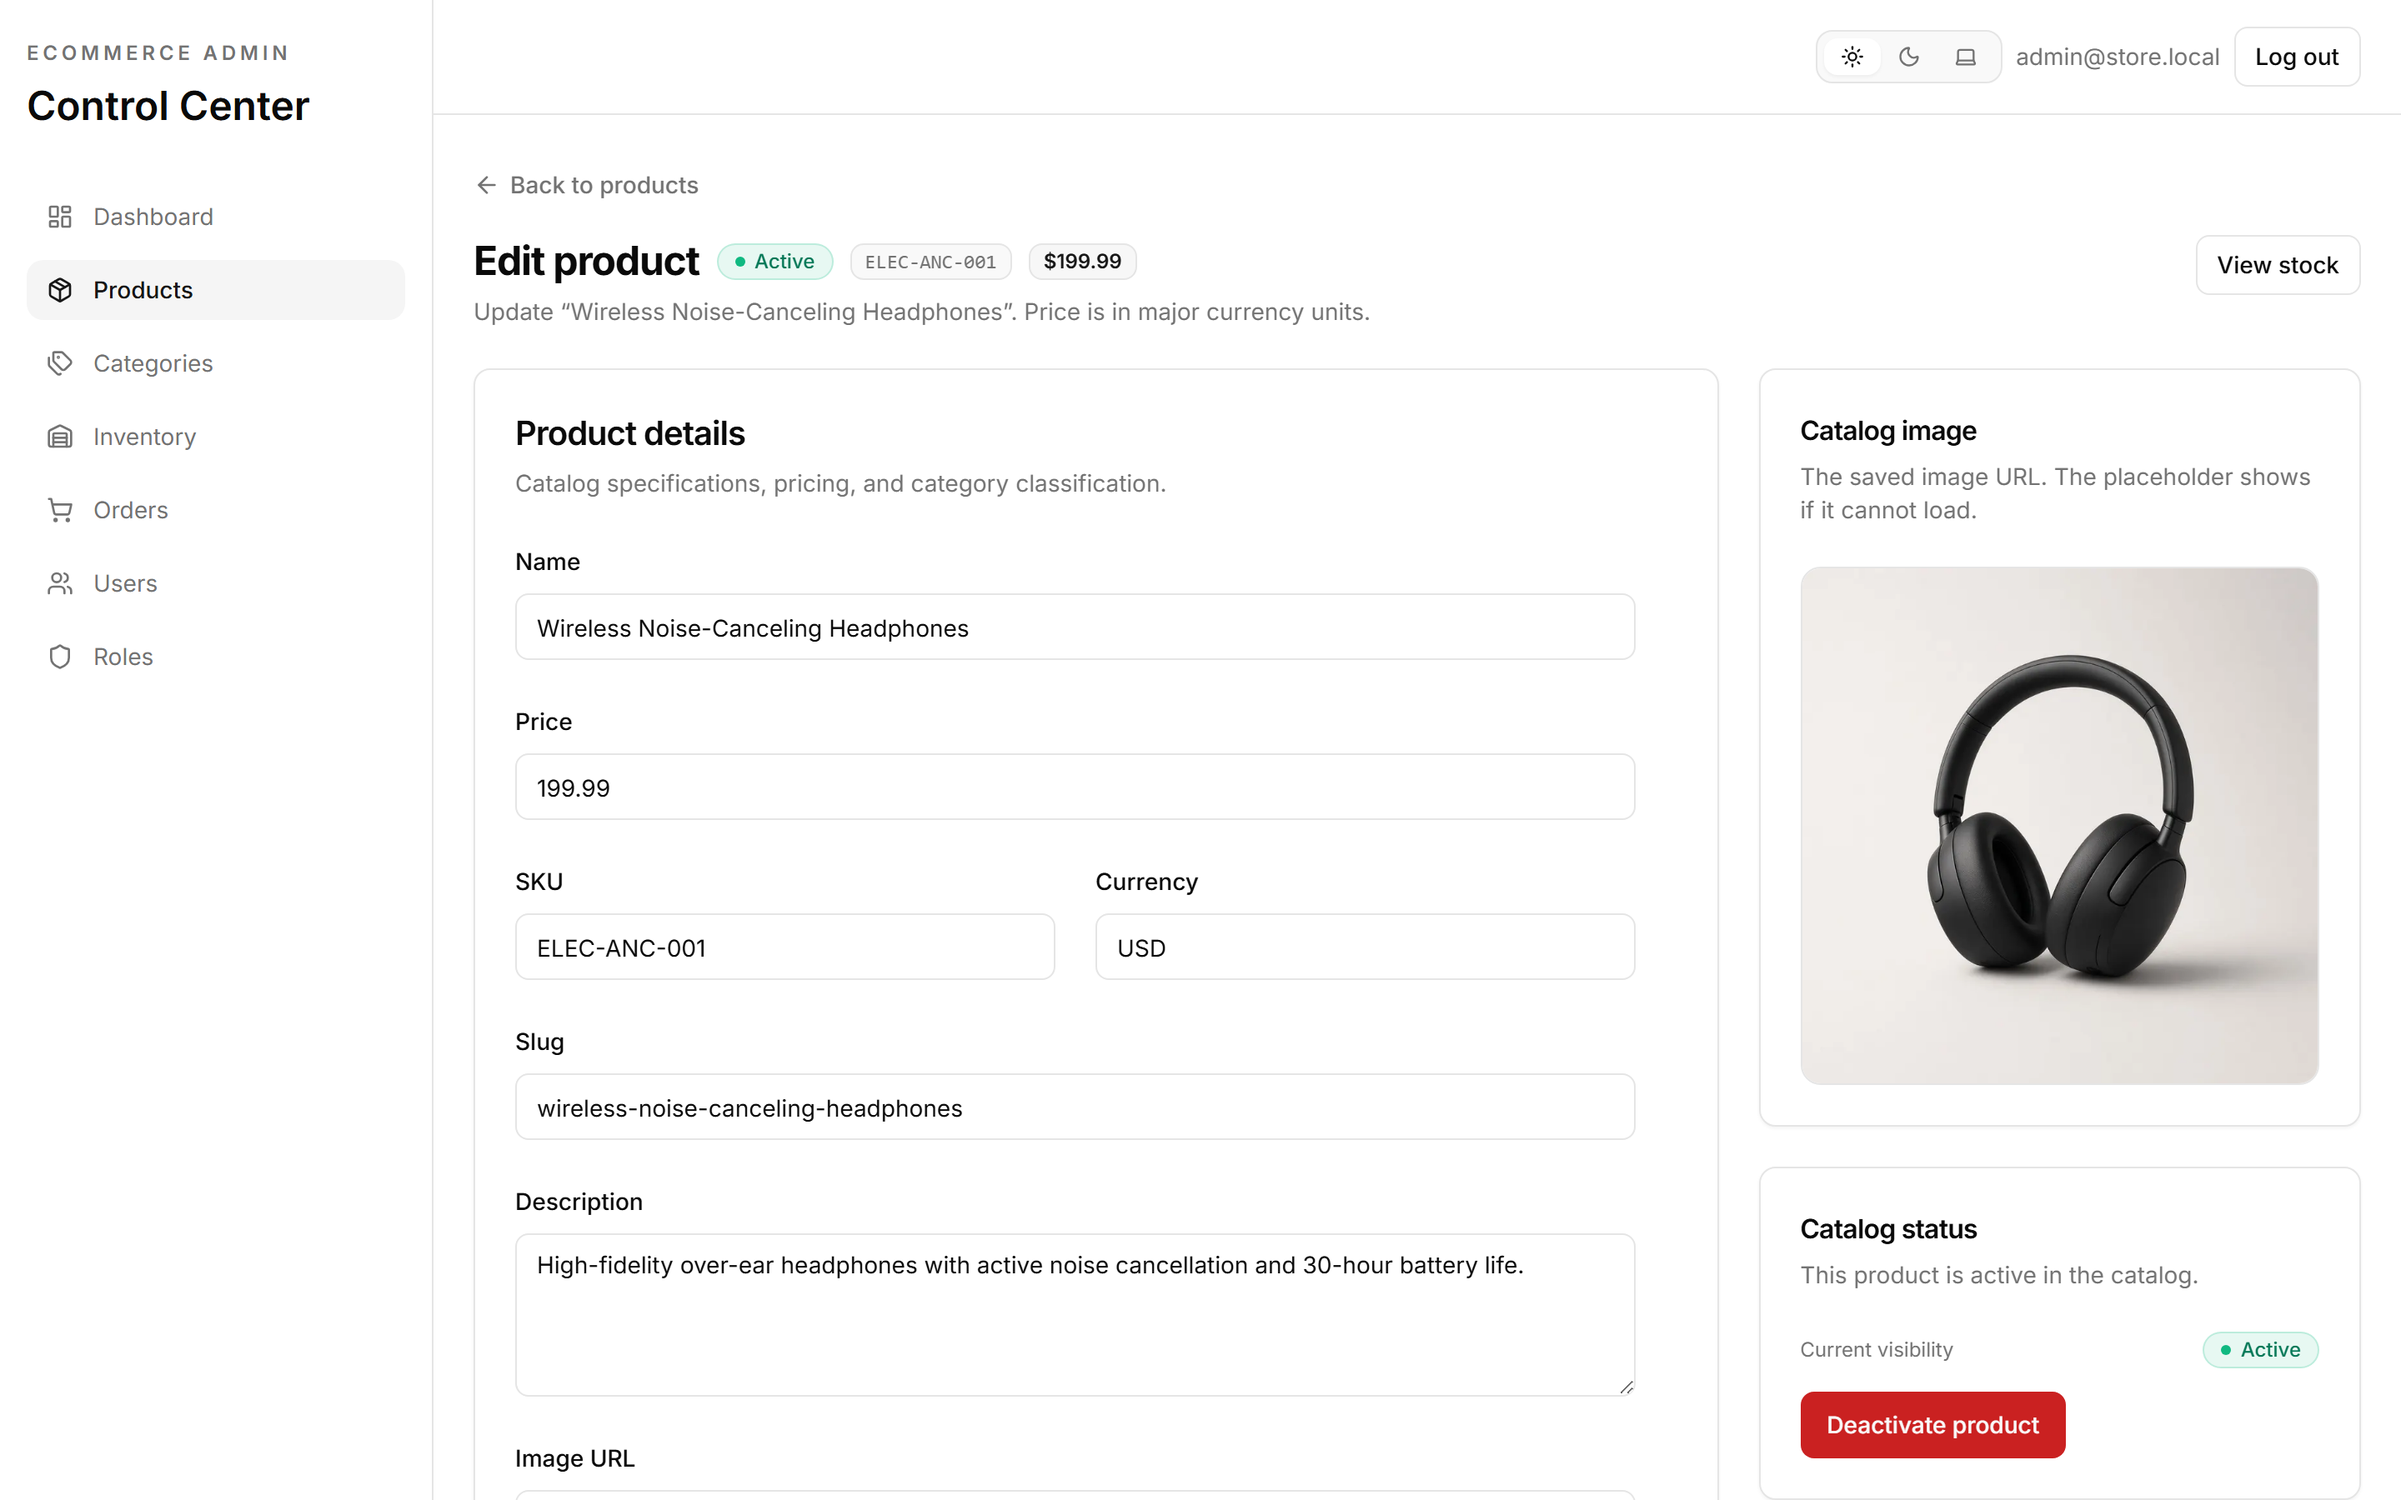
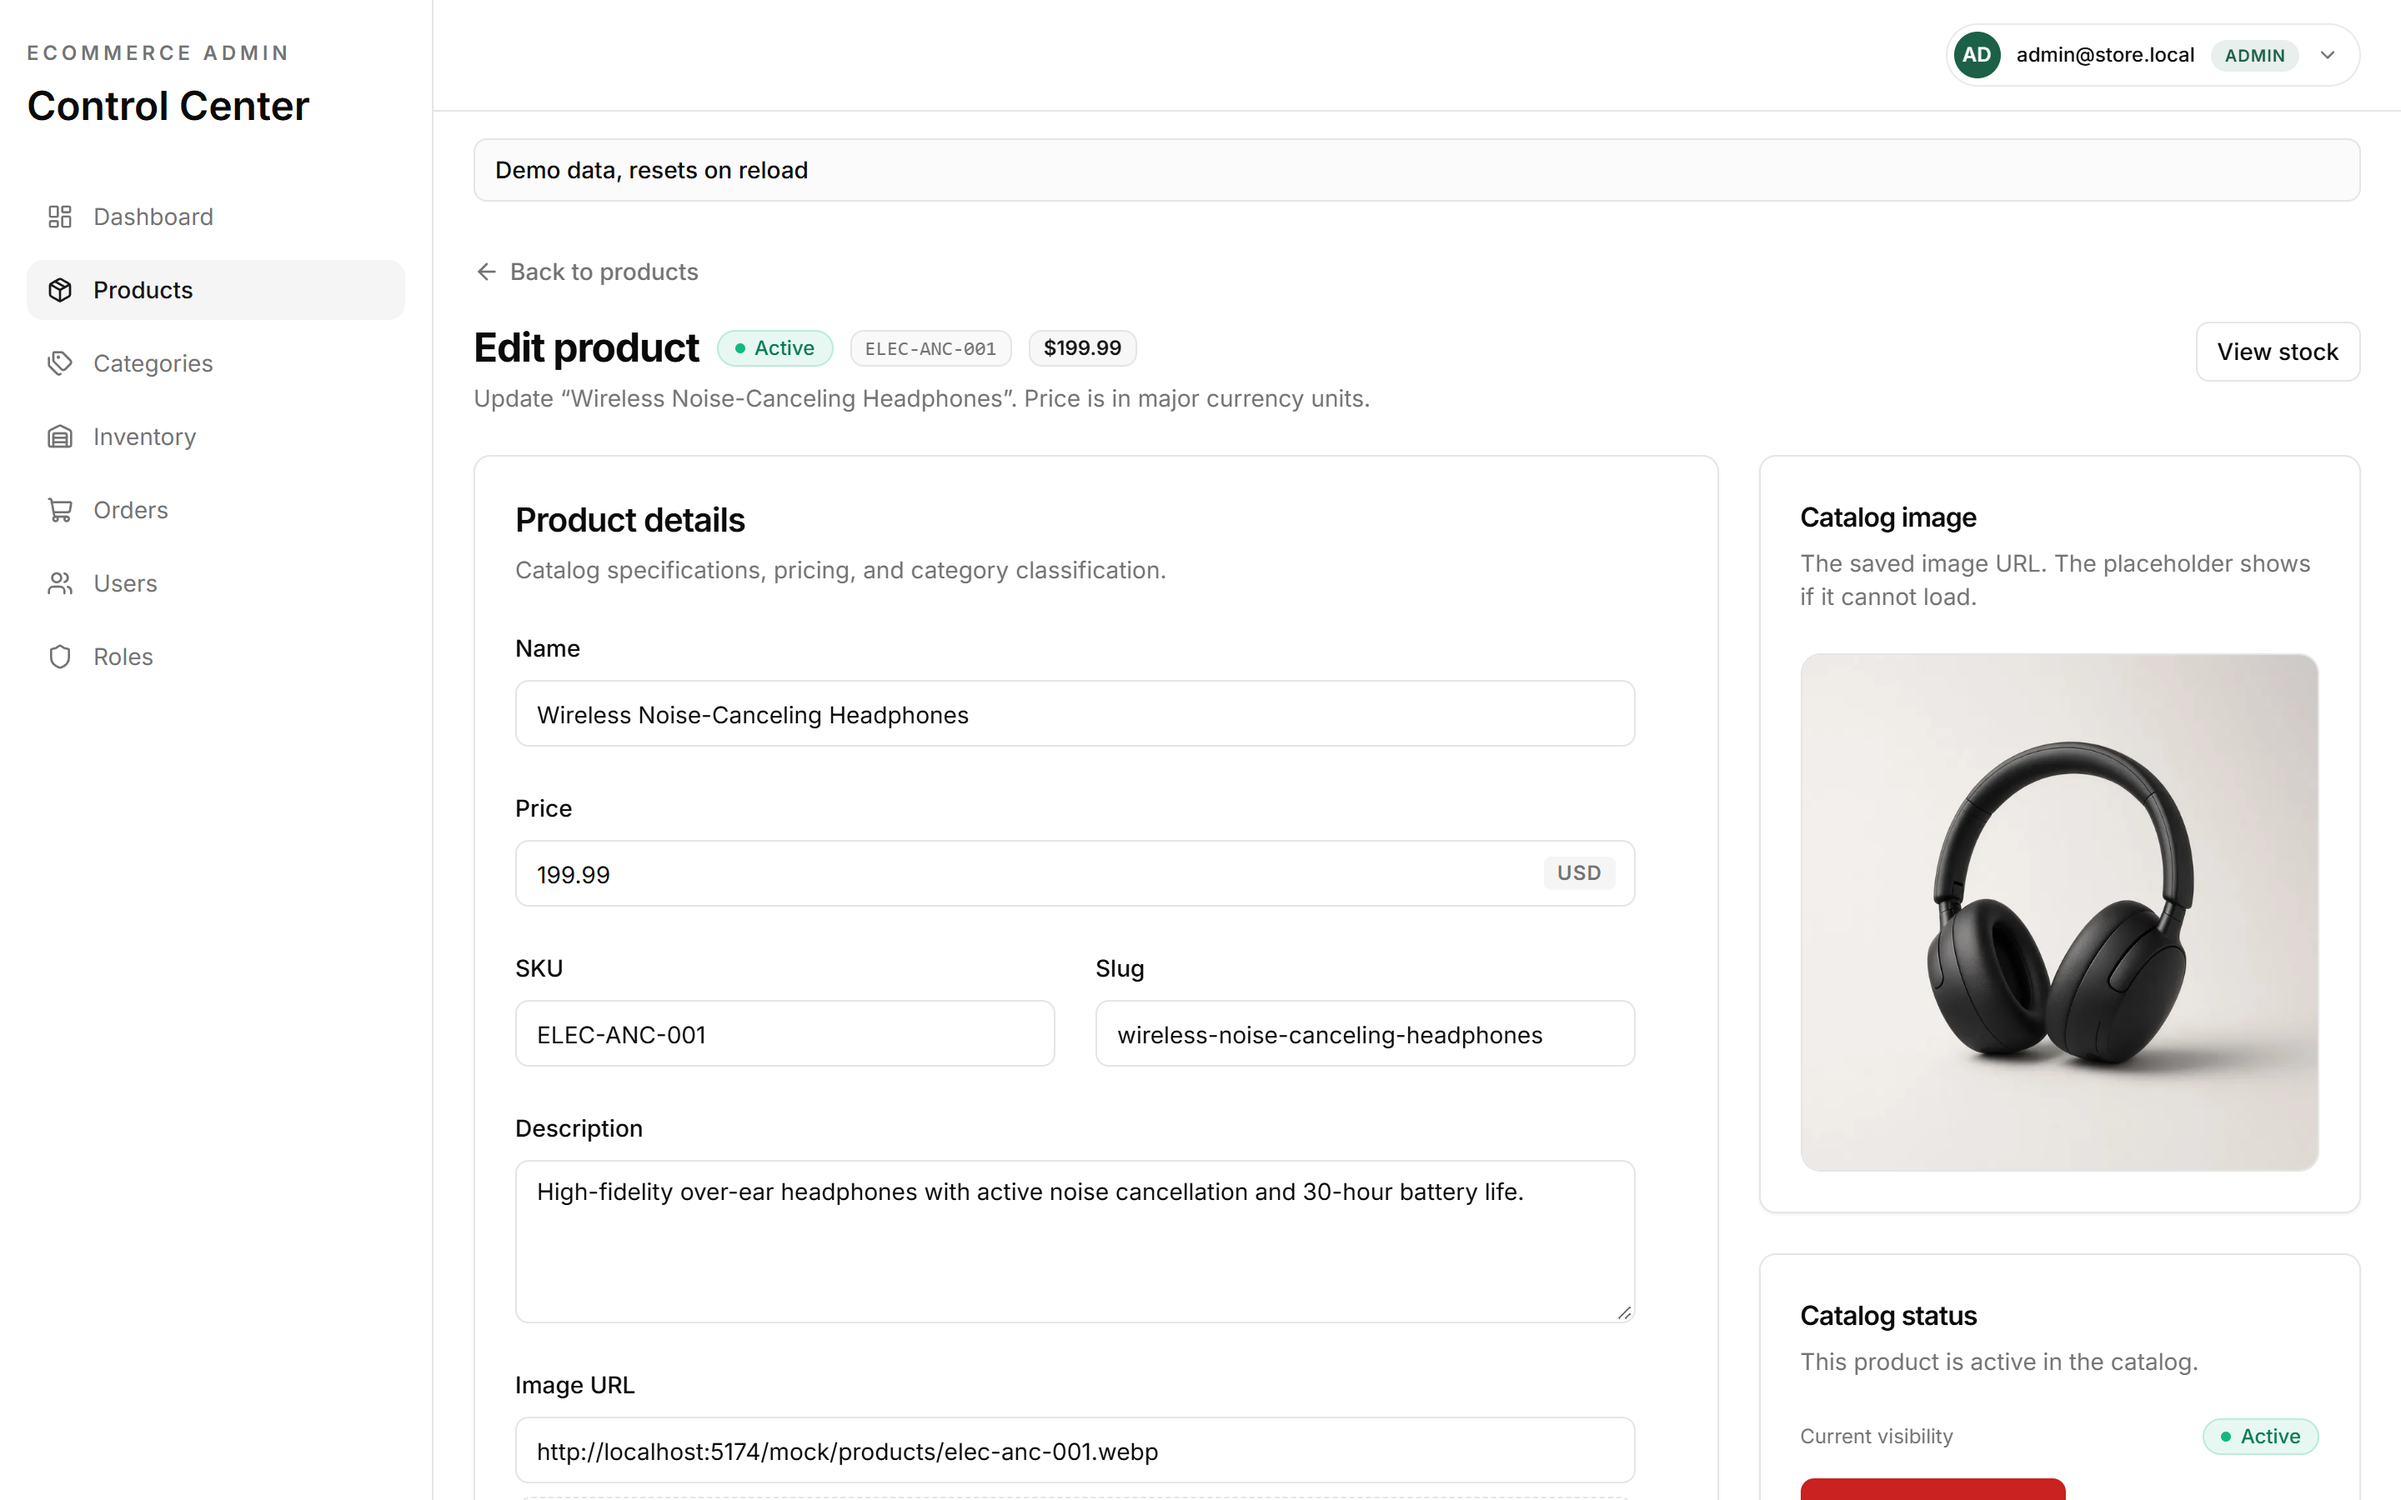
docs(assets): recapture 0.5.0 showcase stills and walkthrough (#102)
Refresh README media for the operator user menu, demo banner, and related shell UI before the develop-to-master release. Document CAPTURE_CHANNEL for system Chrome when Playwright browsers are unavailable.

diff --git a/scripts/capture-showcase.js b/scripts/capture-showcase.js
@@ -11,7 +11,10 @@ async function main() {
   const baseUrl = process.env.BASE_URL ?? 'http://localhost:5174';
 
   console.log(`Starting showcase capture at ${baseUrl} (1440x900 @ 2x -> 2880x1800)...`);
-  const browser = await chromium.launch({ headless: true });
+  const browser = await chromium.launch({
+    headless: true,
+    channel: process.env.CAPTURE_CHANNEL || undefined,
+  });
 
   // -------------------------------------------------------------
   // 1. CAPTURE ALL DARK THEME STILLS

diff --git a/scripts/create-walkthrough.js b/scripts/create-walkthrough.js
@@ -84,7 +84,10 @@ async function captureWalkthrough() {
   const width = 1280;
   const height = 800;
 
-  const browser = await chromium.launch({ headless: true });
+  const browser = await chromium.launch({
+    headless: true,
+    channel: process.env.CAPTURE_CHANNEL || undefined,
+  });
   const context = await browser.newContext({
     viewport: { width, height },
     deviceScaleFactor: 1,

diff --git a/CHANGELOG.md b/CHANGELOG.md
@@ -20,14 +20,17 @@ Works with ecommerce-store-api v0.10.0 or later.
 ### Changed
 
 - **Breaking:** payment method `CARD` replaces `STRIPE`. Requires ecommerce-store-api v0.10.0 ([#94](https://github.com/raouf-b-dev/ecommerce-admin-dashboard/pull/94)).
+- Product create and update always send `currency`, matching the API v0.10.0 contract ([#94](https://github.com/raouf-b-dev/ecommerce-admin-dashboard/pull/94)).
 - Responsive admin shell below desktop widths ([#90](https://github.com/raouf-b-dev/ecommerce-admin-dashboard/pull/90)).
 - Tests use the production compiler; mobile Playwright projects added ([#91](https://github.com/raouf-b-dev/ecommerce-admin-dashboard/pull/91)).
 - Slimmer agent guidance ([#88](https://github.com/raouf-b-dev/ecommerce-admin-dashboard/pull/88)).
+- Regenerated README showcase stills and walkthrough for the 0.5.0 shell (user menu, demo banner, payment labels).
 
 ### Fixed
 
 - Only optimistic lock conflicts are treated as version conflicts ([#92](https://github.com/raouf-b-dev/ecommerce-admin-dashboard/pull/92)).
 - CI status gate uses `E2E_STATUS` ([#82](https://github.com/raouf-b-dev/ecommerce-admin-dashboard/pull/82)).
+- E2E CI boots the API from the NestJS 12 `dist/main.js` layout and keeps phone project viewports ([#100](https://github.com/raouf-b-dev/ecommerce-admin-dashboard/pull/100)).
 
 [Compare v0.4.1...v0.5.0](https://github.com/raouf-b-dev/ecommerce-admin-dashboard/compare/v0.4.1...v0.5.0)
 

diff --git a/docs/assets/README.md b/docs/assets/README.md
@@ -5,7 +5,7 @@ Portfolio media for the README hero and screenshot gallery. Captured against **`
 ## Prerequisites
 
 1. From repo root: `npm run dev:mock` (port **5174**).
-2. Playwright Chromium installed: `npx playwright install chromium` (once).
+2. Playwright Chromium installed: `npx playwright install chromium` (once). If the download fails, use a system browser: `CAPTURE_CHANNEL=chrome npm run assets:capture` (or `msedge`).
 
 ## Regenerate
 
@@ -34,3 +34,4 @@ Override base URL if needed: `BASE_URL=http://localhost:5174 npm run assets:capt
 | `screenshot-rbac-matrix-{dark,light}.png` | Roles / permissions dialog |
 
 Additional stills (products, categories, order detail, etc.) are written by `capture-showcase.js` for future docs use.
+
